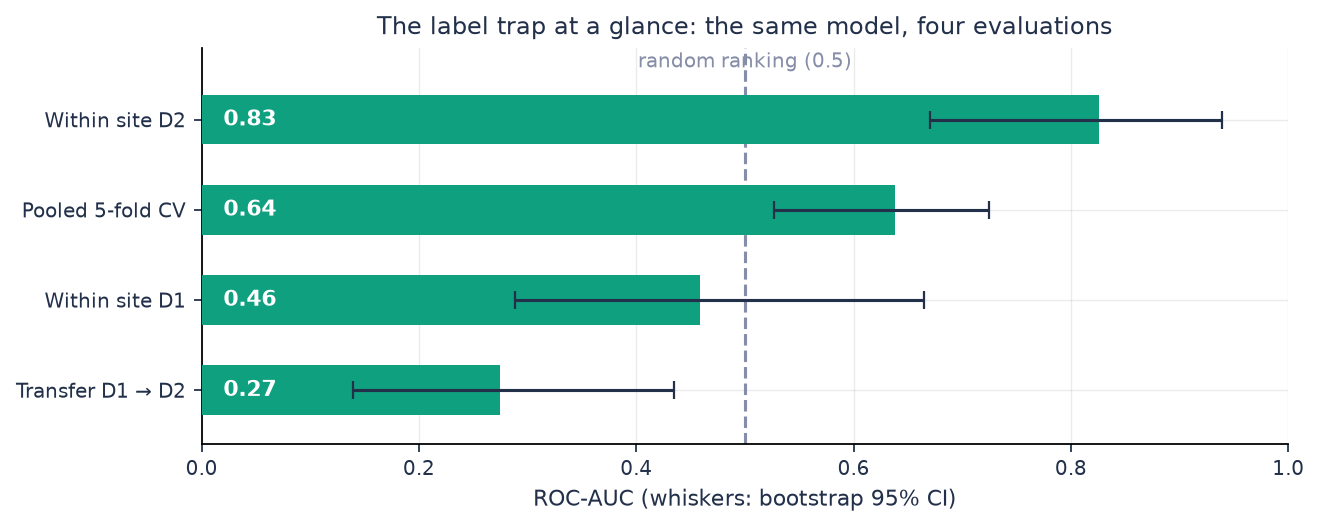
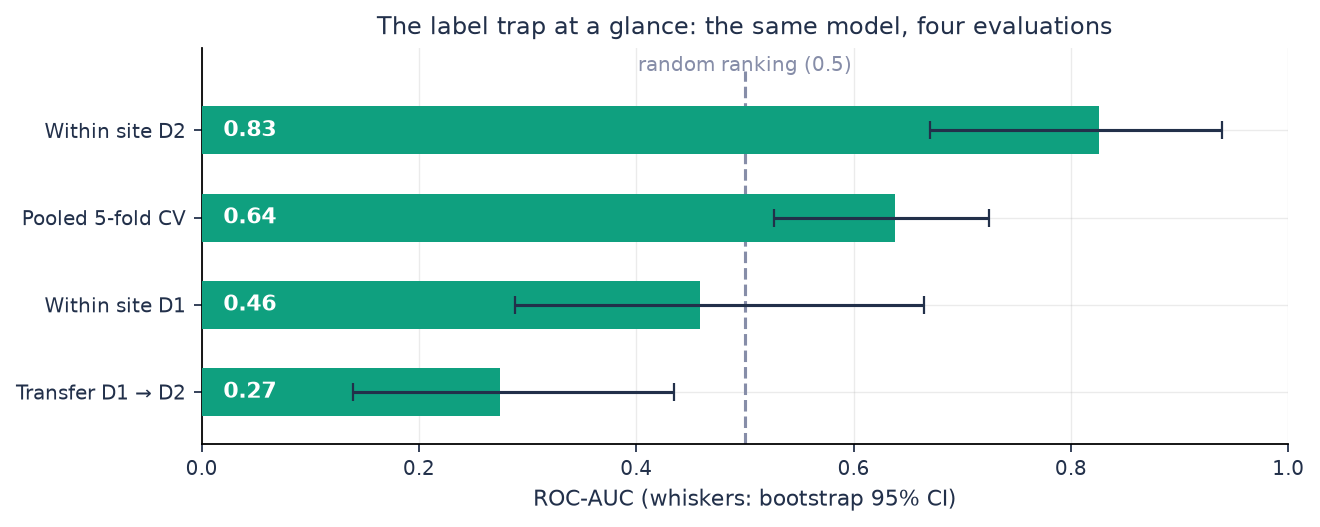
Stop the chance line short of its label in the label-trap figure

diff --git a/scripts/make_readme_figures.py b/scripts/make_readme_figures.py
@@ -221,9 +221,11 @@ def trap_figure():
     ax.errorbar(auc, ypos,
                 xerr=[[a - c[0] for a, c in zip(auc, ci)], [c[1] - a for a, c in zip(auc, ci)]],
                 fmt="none", ecolor=INK, elinewidth=1.4, capsize=4, zorder=4)
-    ax.axvline(0.5, color=GRAY, lw=1.4, ls="--", zorder=2)
-    ax.text(0.5, len(rows) - 0.42, "random ranking (0.5)", color=GRAY, fontsize=9, ha="center")
-    ax.set_ylim(-0.6, len(rows) - 0.2)
+    # the dashed line stops below its own label so the two never overlap
+    ax.axvline(0.5, ymax=0.94, color=GRAY, lw=1.4, ls="--", zorder=2)
+    ax.text(0.5, len(rows) - 0.26, "random ranking (0.5)", color=GRAY, fontsize=9,
+            ha="center", va="center")
+    ax.set_ylim(-0.6, len(rows) - 0.05)
     for y, a in zip(ypos, auc):
         ax.text(0.02, y, f"{a:.2f}", va="center", color="white", fontsize=10, fontweight="bold", zorder=5)
     ax.set_yticks(ypos, names, fontsize=10, color=INK)
